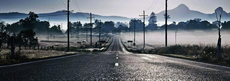
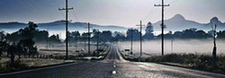
Optimizados los headers a 1200px

diff --git a/inc/functions.php b/inc/functions.php
@@ -148,8 +148,8 @@ function t_em_support_custom_header(){
 	$custom_header_support = array (
 		'default-text-color'		=> '757575',
 		'default-image'				=> T_EM_THEME_DIR_IMG_URL . '/headers/twenty-em-header.jpg',
-		'width'						=> apply_filters( 't_em_header_image_width', 1000 ),
-		'height'					=> apply_filters( 't_em_header_image_height', 350 ),
+		'width'						=> apply_filters( 't_em_header_image_width', 1200 ),
+		'height'					=> apply_filters( 't_em_header_image_height', 420 ),
 		'flex-height'				=> true,
 		'random-default'			=> true,
 		'uploads'					=> true,
